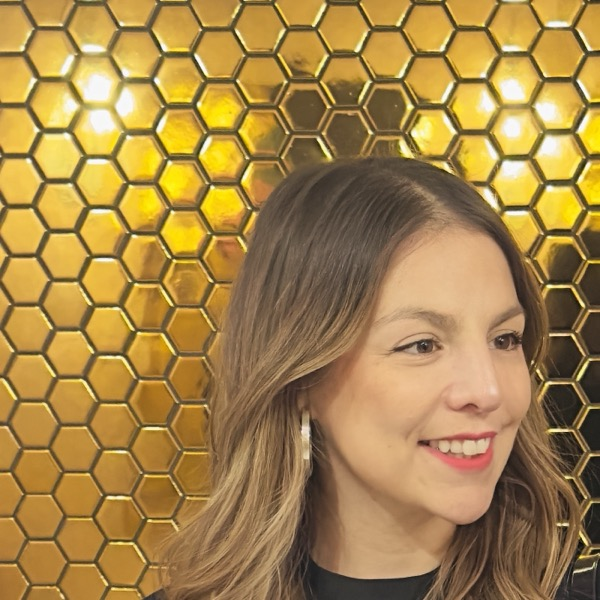
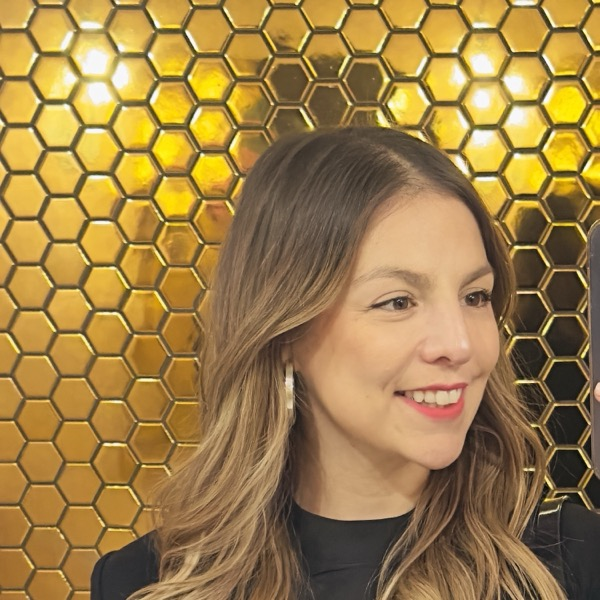
Agrega artículo del blog sobre el rodeo, fotos al listado del blog, y ajusta recorte de la foto de perfil
- Nuevo artículo: "Septiembre sin rodeo: hay tradiciones que también pueden cambiar"
- El listado del blog ahora muestra una miniatura por artículo
- Recorte de la foto redonda del home con más margen (menos ajustado a la cara)

diff --git a/src/lib/blogPosts.js b/src/lib/blogPosts.js
@@ -3,4 +3,5 @@
 export const BLOG_POST_SLUGS = [
   'mi-experiencia-con-la-artritis',
   'ser-vegano-es-por-los-animales-pero-y-nuestra-salud',
+  'septiembre-sin-rodeo-tradiciones-que-tambien-pueden-cambiar',
 ];
